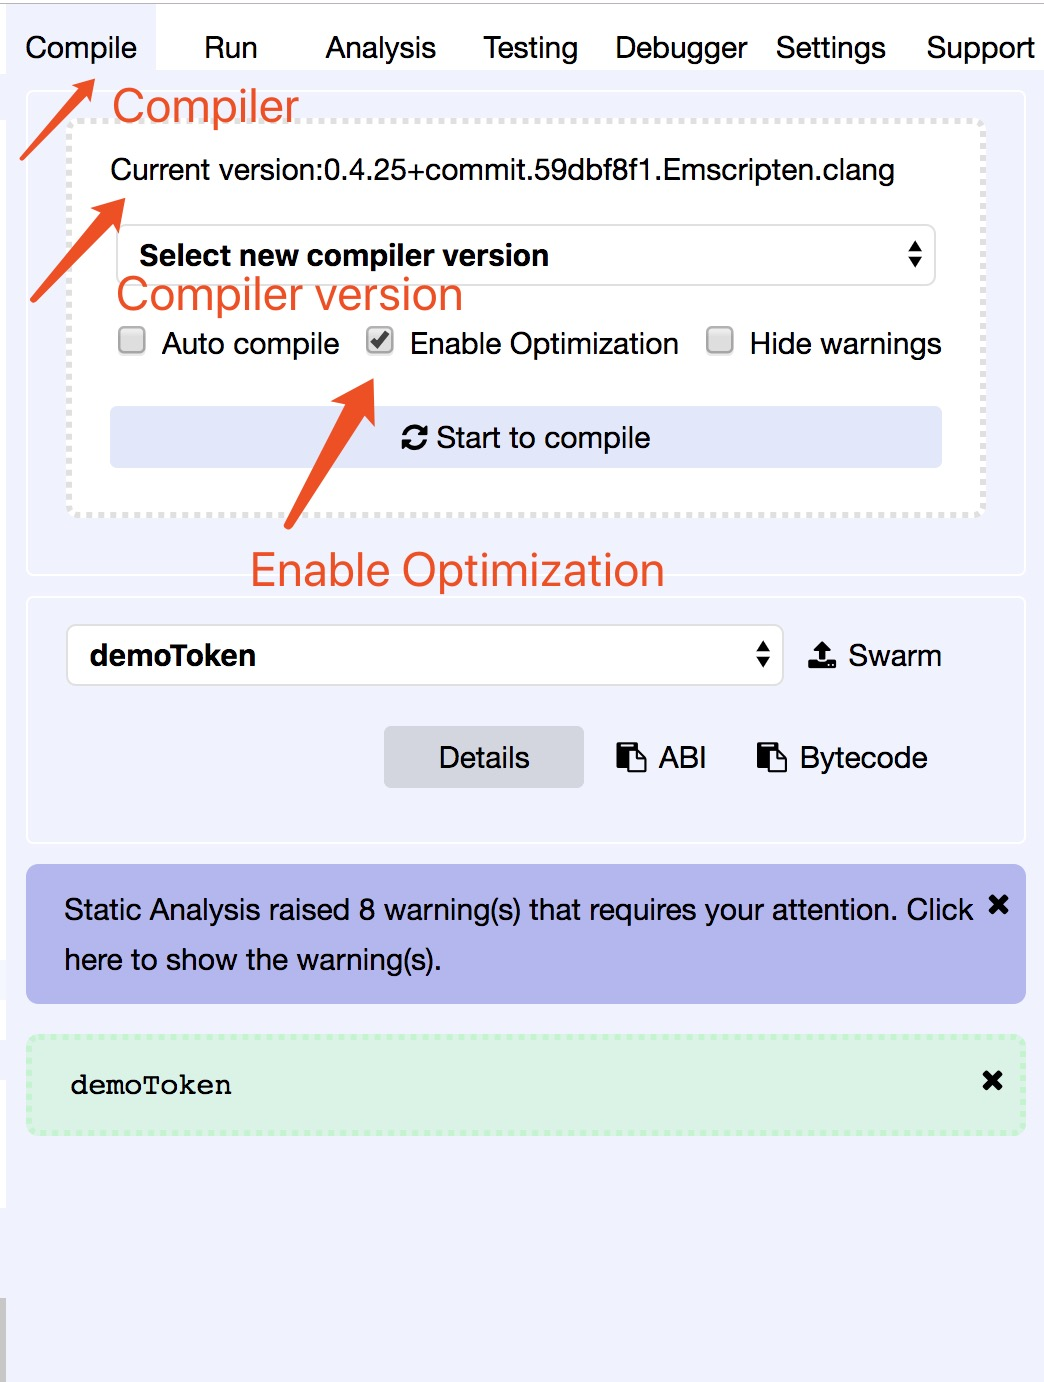
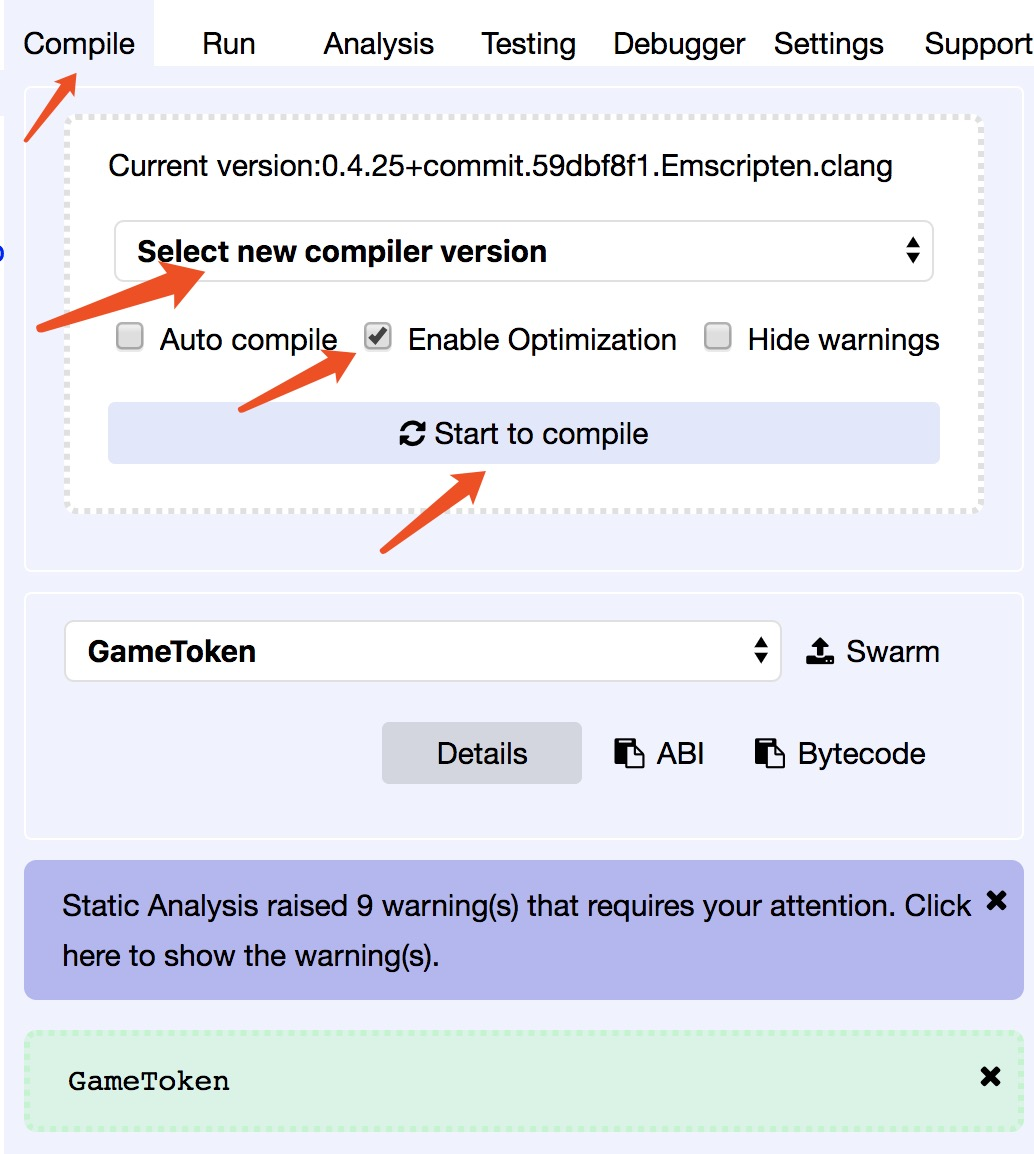
add statement and fix part 1 steps in tutorial md

diff --git a/tutorial/README.md b/tutorial/README.md
@@ -1,8 +1,16 @@
 # Tutorial
 
+## Statement
+This document is coupled with our tutorial at [IEEE SecDev2018](https://secdev.ieee.org/2018/agenda/), *Building Secure and Trustworthy Blockchain Applications*. 
+
+Two demo link (Only Opened between Sep 29 2018 and Oct 3 2018):
+
+* Public chain version: [http://public.secdevgame.site](http://public.secdevgame.site)
+* Public chain and Consortium chain version: [http://private.secdevgame.site](http://private.secdevgame.site)
+
 ## Overview 
 
-This tutorial includes three part: **Deploy and Make Contract Public**, **From Contract to a Web App**, and **Appendix**. Part one is about deploying a contract in public ethereum testnet. Part two elaborates on our demo on the basis of this contract and summarizes all the important notes. Part three introduces all the programming tools used.
+This tutorial includes three part: **Deploy and Make Contract Public**, **From Contract to a Web App**, and **Appendix**. Part one is about compiling and deploying the GameToken contract to Kovan testnet. Part two elaborates on our demo on the basis of this contract and summarizes all the important notes. Part three introduces all the programming tools used.
 
 ## Part One: Deploy and Make Contract Public
 
@@ -10,27 +18,30 @@ This tutorial includes three part: **Deploy and Make Contract Public**, **From C
 
 In this part, [*Kovan Etherscan*](https://kovan.etherscan.io/) (one of the ethereum testnets) is used for contract deployment. Before the actual deployment, it is required to install [chrome](https://www.google.com/chrome/) and [MetaMask](https://metamask.io/) extension. With *MetaMask* (a pretty GUI), you don't have to run your own node. See details below.
 
-### 2. Open MetaMask
+### 2. Lauch MetaMask
 
-After installing MetaMask, you can find MetaMask icon (a fox) on the top right. Click it. 
-> Please try to use the latest version of **MetaMask**.
+1. After installing MetaMask, you can find MetaMask icon (a fox) on the top right. Click it. 
+2. Click "TRY IT NOW" to use the new version.
 
 
 <center><img style="text-align:center" src="assets/maskopen.jpg" width="250" /></center>
 
 
-### 3. Create your account 
+### 3. Create a new MetaMask account 
 
-   1. Please follow the instruction to create a wallet account.
+   1. Create a password
 
 <center><img src="assets/newAccount.jpg" width="250" /></center>
 
-   2. After a few simple steps, you will see the "Secret Backup Phrase". Copy and save it to a 
-convenient place. Soon we will use it again.
+   2. After a few simple steps, you will see the "Secret Backup Phrase". Save it to a convenient place. We will use it in step 3
+   
+   <center><img src="assets/secret phrase.jpg" width="300"></center>
+    
+   3. Confirm the key phrase generated in step 2
 
-> "Secret Backup Phrase" can be used to recover your account. 
+	![confirm](assets/confirm.jpeg)
 
-<center><img src="assets/secret phrase.jpg" width="300"></center>
+
 
 ### 4. Connect to "Kovan Test Network"
 
@@ -61,17 +72,11 @@ For convenience, you can visit this [Demo Faucet](http://private.secdevgame.site
 
   1. For the first time, Remix will generate a simple "ballot.sol" contract for us. Replace the content with our customized token contract. And then paste our demo code to the editor. You can find the code [here](https://github.com/CongGroup/SecDev2018-tutorial/blob/master/contract/DemoToken.sol).
 
-
-  2. Click `Compile`. It displays all the information of the compiler. By default, the current version is `0.4.25+commit.59dbf8f1.Emscripten.clang` and you don't have to change it. In case it's different, you can choose it at the very beginning of drop-down item (show in the second picture below).
-
-  3. Select `Enable Optimation` and click `Start to compile`
-<center><img src="assets/compile.jpg" width="500" /> </center>
-
-  > Note: Check the following image if your have trouble following step 2 in this session.
-<center> <img src="assets/version.jpg", width="400"> </center>
- 
-
-
+  2. Swith to compile tab, It displays all the information of the compiler. Make sure Enable Optimization is checked.
+  	<center><img src="assets/compile.jpg" width="500" /> </center>
+  3. Select compiler version. `0.4.25+commit.59dbf8f1.Emscripten.clang` 
+  	<center> <img src="assets/version.jpg", width="400"> </center>
+  4. Click Start to compile.
 
 ### 8. Deploy Contract
 
@@ -111,7 +116,7 @@ Possible arguments: **10000, "DemoToken","DMT", 10**.
 
 > In Etherscan, you can check every transaction and see the source code of every deployed contract. To make your contract reliable for others, it's better to publish your contract.
 
-<center><img src="assets/getEther.png" width="800" /></center>
+<center><img src="assets/etherscan.jpg" width="800" /></center>
 
 
 
@@ -138,11 +143,11 @@ Possible arguments: **10000, "DemoToken","DMT", 10**.
 
 ### 1. Introduction
 
-In this part, the detailed explanation of the demo is provided. There are altogether two versions of the demo. One is built on the public chain only while the other is built on both the private chain and the public chain. The functions of the former version are included in the latter version. After going through the former version, you can have a better understanding of why we use the private chain here. 
+In this part, the detailed explanation of the demo is provided. There are altogether two versions of the demo. One is built on the public chain only while the other is built on both the consortium chain and the public chain. The functions of the former version are included in the latter version. After going through the former version, you can have a better understanding of why we use the consortium chain here. 
 
 The former version is [here](http://public.secdevgame.site), which is built on the public chain only.
 
-The latter version is [here](http://private.secdevgame.site), which is built on the private chain and the public chain.
+The latter version is [here](http://private.secdevgame.site), which is built on the consortium chain and the public chain.
 
 ### 2. Demo show
 
@@ -169,7 +174,7 @@ The latter version is [here](http://private.secdevgame.site), which is built on 
 
 <center> <img src="assets/double.png" width=500> </center>
 
-  6. (This part is only shown in the latter version.) Switch to the wallet, you can transfer your token between the private chain and the public chain. After inputting the amount of token to transfer, click the `exchange` button, you will send a transaction signed by your account to our server which transfers the transaction to a chain. After a few seconds, you can see your token transferred to the other chain.
+  6. (This part is only shown in the latter version.) Switch to the wallet, you can transfer your token between the consortium chain and the public chain. After inputting the amount of token to transfer, click the `exchange` button, you will send a transaction signed by your account to our server which transfers the transaction to a chain. After a few seconds, you can see your token transferred to the other chain.
 
 
 <center> <img src="assets/wallet.png" width=400> </center>
@@ -193,25 +198,25 @@ The following image illustrates the whole architecture. In fact, the **bridge** 
 
   3. Play the game machine and reward your token.
 
-  > Every time you play five rounds within the game machine, a http request is sent to the server. On the server side, a private chain composed of three nodes is running. After the server receives the request, call a function in the contract and send this transaction to the chain.
+  > Every time you play five rounds within the game machine, a http request is sent to the server. On the server side, a consortium chain composed of three nodes is running. After the server receives the request, call a function in the contract and send this transaction to the chain.
 
   4. Consume two tokens, you can get into a **Double** state, where in four rounds, your reward will double.
 
   > This part is written in `JavaScript`.
 
-  5. Exchange tokens between the private chain and the public chain via the wallet.
+  5. Exchange tokens between the consortium chain and the public chain via the wallet.
 
   * When you click `exchange` button, you are using your wallet to create and sign a transaction.
-  * Then the transaction, wrapped in the http request, is sent to the server. Upon receiving the transaction, the server sends it to the public chain or the private chain based on your choice. 
+  * Then the transaction, wrapped in the http request, is sent to the server. Upon receiving the transaction, the server sends it to the public chain or the consortium chain based on your choice. 
   * Suppose the transaction is sent to the public chain and the public chain executes it, reduces your token amount in the public chain, and emits an event (you can see there are several events defined in the contract). 
-  * Our bridge, as a JavaScript program that is listening on such event, will catch this event and send another transaction to the private chain to increase your token amount in the private chain. 
+  * Our bridge, as a JavaScript program that is listening on such event, will catch this event and send another transaction to the consortium chain to increase your token amount in the consortium chain. 
   * It's exactly the same process if you want to exchange your tokens to the other side.
  
  
 ## Part Three: Appendix
 
   * Public Chain: Kovan. We use the [Parity](https://wiki.parity.io/) client to connect to Kovan.
-  * Private Chain: [Geth](https://github.com/ethereum/go-ethereum), with POA as the concensus algorithm.
+  * Consortium Chain: [Geth](https://github.com/ethereum/go-ethereum), with POA as the concensus algorithm.
   * API to interact with two chains: [web3js](https://web3js.readthedocs.io/en/1.0/index.html).
   * Backend : [Koa](https://github.com/koajs/koa).
   * Frontend: [Vue](https://vuejs.org/).
